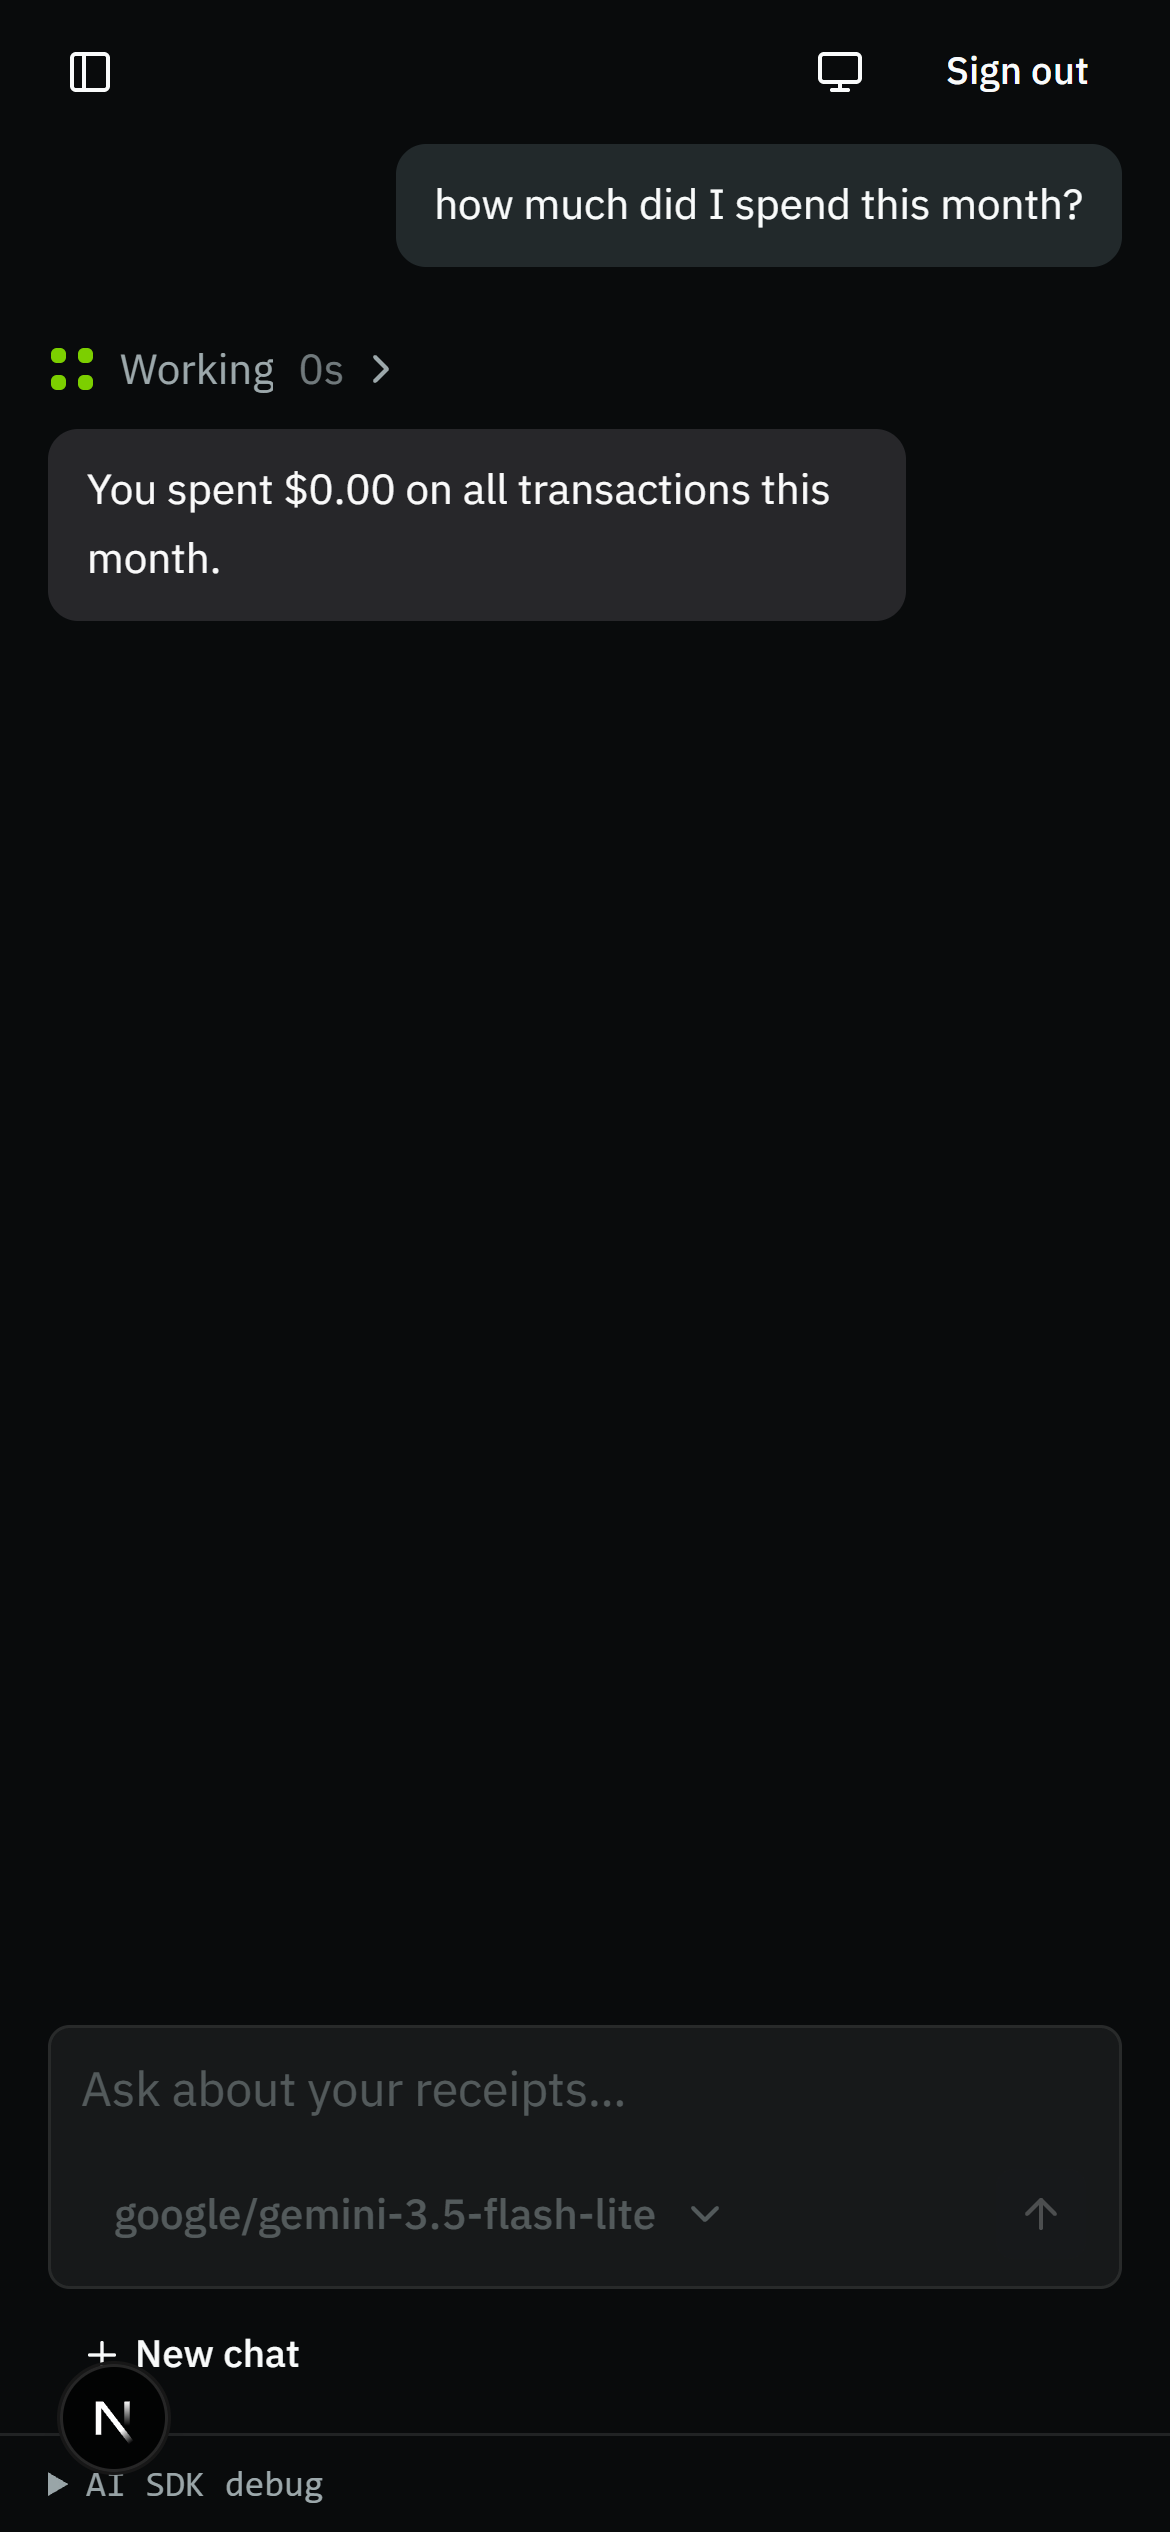
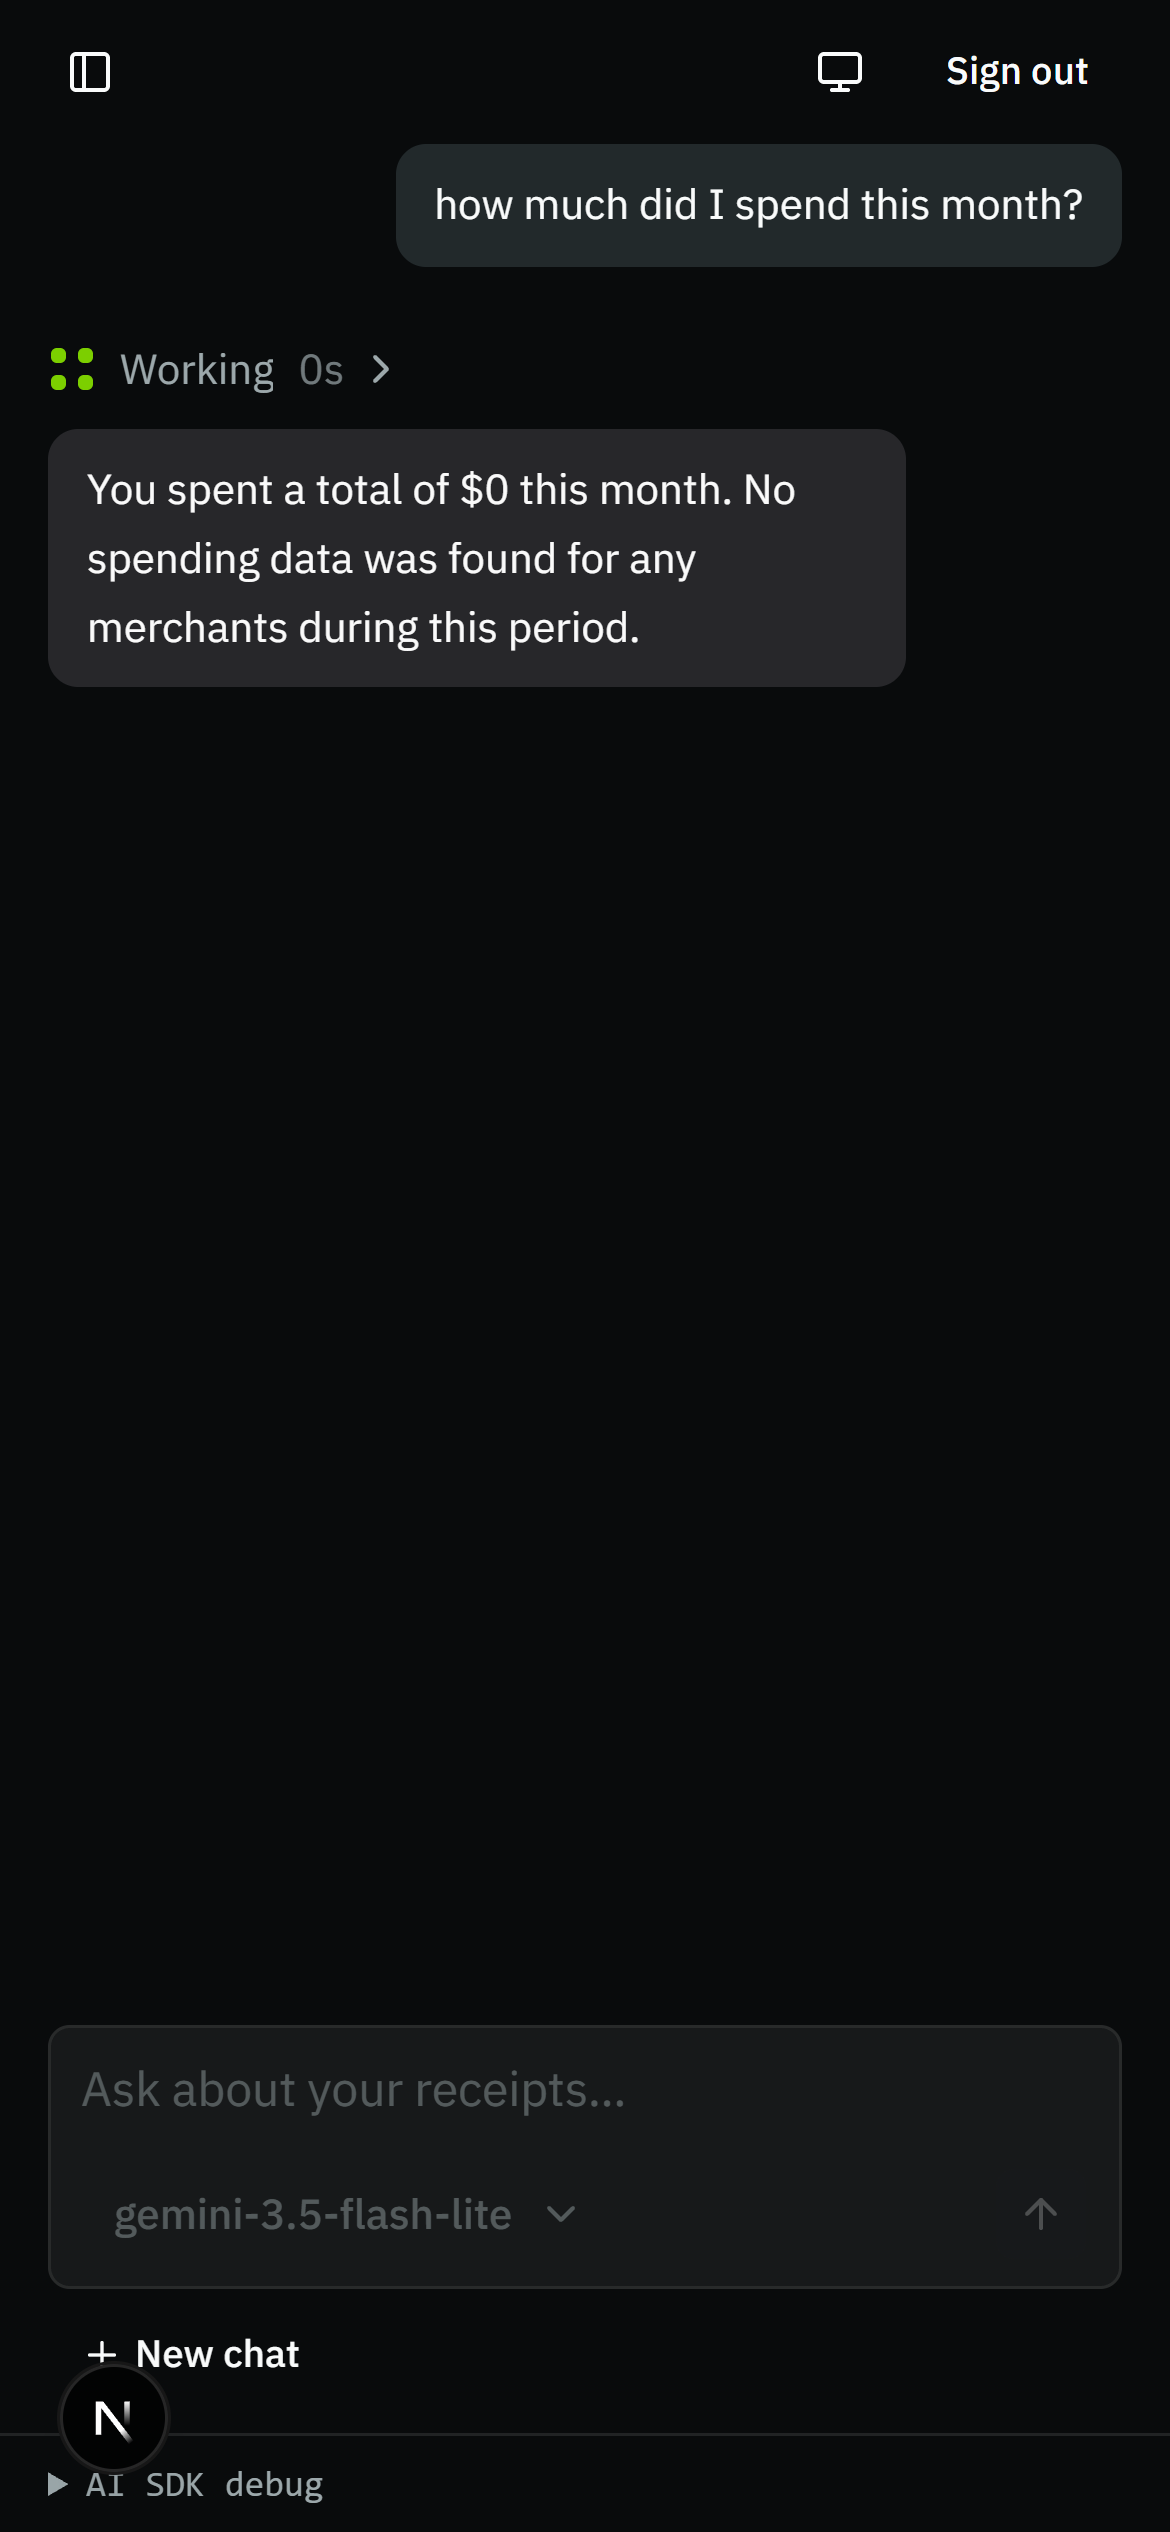
prototype(chat): drop the vendor segment from the label
`deepseek-v4.1-flash`, not `deepseek/deepseek-v4.1-flash`. The provider is
either the only one in the list or the heading above the row, so repeating it on
every line is noise. The id after the slash is still the id the route sends,
just the model half of it.

`local` keeps its wrapper: it has no vendor segment to drop, and the reader
needs to know the request is not leaving for a hosted provider.

The trigger and the menu shrink with the shorter labels; the longest launch
label still fits inside the menu's `min-w-56` floor without truncating.

diff --git a/lib/chat/catalogue.ts b/lib/chat/catalogue.ts
@@ -33,11 +33,21 @@ export const localCatalogue: CatalogueEntry[] = [
 ];
 
 /**
- * The raw model id is the label. `local` is the one exception: the id alone
- * does not say what is running behind it, so it names the model too.
+/**
+ * The label is the model id with its vendor segment dropped — `deepseek-v4.1-flash`,
+ * not `deepseek/deepseek-v4.1-flash`. The provider is either the only one in the
+ * list or the heading above the row, so repeating it on every line is noise.
+ *
+ * `local` is the exception: it has no vendor segment, and the reader needs to
+ * know the request is not leaving for a hosted provider.
  */
-export const labelOf = (entry: CatalogueEntry) =>
-  entry.provider === "local" ? `local (${entry.model})` : entry.model;
+export const labelOf = (entry: CatalogueEntry) => {
+  if (entry.provider === "local") {
+    return `local (${entry.model})`;
+  }
+  const slash = entry.model.indexOf("/");
+  return slash === -1 ? entry.model : entry.model.slice(slash + 1);
+};
 
 /** One string per entry, for the radio group, which takes strings. */
 export const keyOf = (entry: CatalogueEntry) =>
